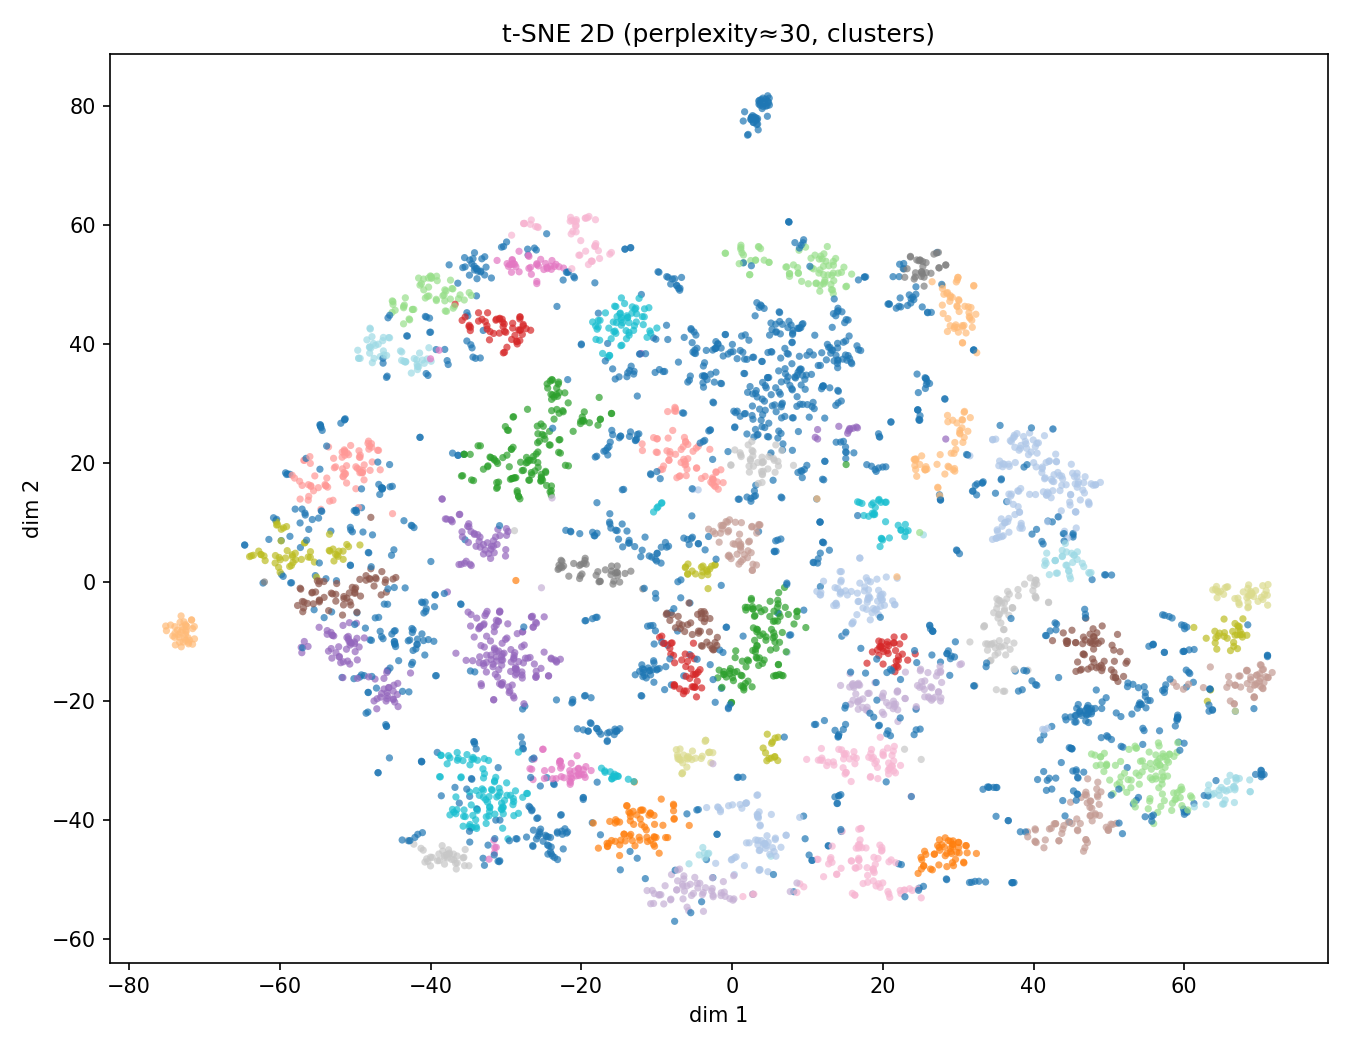
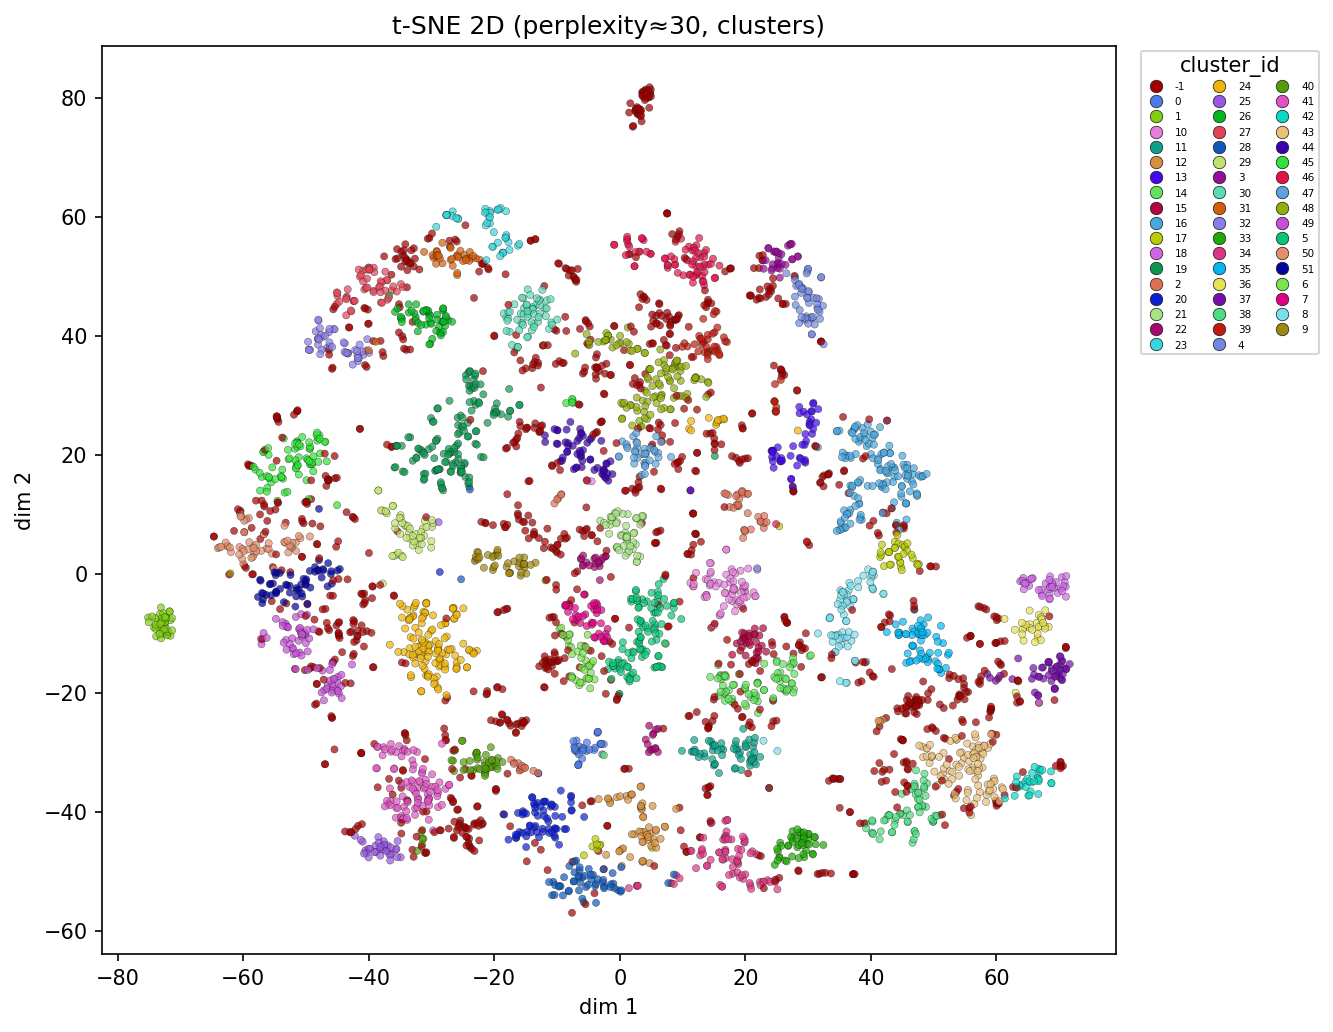
Update figures and enhance plotting functions for cluster analysis
Replaced existing figure files with updated versions for cluster sizes, PCA, t-SNE, and UMAP visualizations. Improved the plotting functions to include dynamic legend titles and enhanced color mapping for clusters, ensuring better clarity and consistency in visual representations. Adjusted legend formatting based on the number of clusters to improve readability.

diff --git a/maks/thesisdatarepo/analysis/plotting.py b/maks/thesisdatarepo/analysis/plotting.py
@@ -11,7 +11,7 @@ import numpy as np
 import pandas as pd
 import seaborn as sns
 from matplotlib.colors import to_rgba
-from matplotlib.patches import Ellipse
+from matplotlib.patches import Ellipse, Patch
 
 
 # 1/φ: consecutive indices land ~222° apart on the hue wheel (no smooth rainbow).
@@ -42,14 +42,22 @@ def _distinct_category_palette(n: int) -> list[tuple[float, float, float]]:
     return out
 
 
+def make_categorical_color_map(labels: pd.Series | np.ndarray) -> dict[str, tuple[float, float, float]]:
+    """Sorted string category -> RGB using :func:`_distinct_category_palette`."""
+    s = pd.Series(labels).astype(str)
+    names = sorted(s.unique())
+    if not names:
+        return {}
+    pal = _distinct_category_palette(len(names))
+    return {n: pal[i] for i, n in enumerate(names)}
+
+
 def make_department_color_map(department: pd.Series) -> dict[str, tuple[float, float, float]]:
     """
     Stable ``department value -> RGB`` for every figure: sorted unique labels
     each get a fixed slot in :func:`_distinct_category_palette`.
     """
-    names = sorted(pd.Series(department).fillna("unknown").astype(str).unique())
-    pal = _distinct_category_palette(len(names))
-    return {n: pal[i] for i, n in enumerate(names)}
+    return make_categorical_color_map(pd.Series(department).fillna("unknown"))
 
 
 def scatter_2d(
@@ -61,16 +69,56 @@ def scatter_2d(
     dpi: int = 150,
     s: float = 12.0,
     alpha: float = 0.7,
+    legend_title: str = "Category",
 ) -> None:
     out.parent.mkdir(parents=True, exist_ok=True)
     fig, ax = plt.subplots(figsize=(9, 7))
-    u = pd.factorize(pd.Series(hue).astype(str))[0]
-    ax.scatter(xy[:, 0], xy[:, 1], c=u, cmap="tab20", s=s, alpha=alpha, linewidths=0)
+    ser = pd.Series(hue).astype(str)
+    cmap_dict = make_categorical_color_map(ser)
+    names_sorted = sorted(cmap_dict.keys())
+    colors = [cmap_dict[h] for h in ser]
+    ax.scatter(
+        xy[:, 0],
+        xy[:, 1],
+        c=colors,
+        s=s,
+        alpha=alpha,
+        linewidths=0.2,
+        edgecolors=(0.08, 0.08, 0.08, 0.45),
+    )
     ax.set_title(title)
     ax.set_xlabel("dim 1")
     ax.set_ylabel("dim 2")
+    n_u = len(names_sorted)
+    if n_u > 0:
+        palette = [cmap_dict[n] for n in names_sorted]
+        leg_fs = 5.0 if n_u > 48 else (5.5 if n_u > 32 else (6.5 if n_u > 16 else 7.5))
+        ncols = 3 if n_u > 30 else (2 if n_u > 14 else 1)
+        handles = [
+            plt.Line2D(
+                [0],
+                [0],
+                marker="o",
+                linestyle="",
+                color=palette[i],
+                label=str(names_sorted[i])[:44],
+                markersize=6,
+                markeredgecolor=(0.12, 0.12, 0.12),
+                markeredgewidth=0.35,
+            )
+            for i in range(n_u)
+        ]
+        ax.legend(
+            handles=handles,
+            bbox_to_anchor=(1.02, 1),
+            loc="upper left",
+            fontsize=leg_fs,
+            frameon=True,
+            title=legend_title,
+            ncol=ncols,
+        )
     fig.tight_layout()
-    fig.savefig(out, dpi=dpi)
+    fig.savefig(out, dpi=dpi, bbox_inches="tight")
     plt.close(fig)
 
 
@@ -235,31 +283,85 @@ def scatter_2d_department_with_cluster_blobs(
     ax.set_xlabel("dim 1")
     ax.set_ylabel("dim 2")
 
-    show_legend = department_color_map is not None or n_u <= 32
-    if show_legend:
-        leg_fs = 5.5 if n_u > 40 else (6.0 if n_u > 24 else 7.0)
-        handles = [
+    leg_fs = 5.5 if n_u > 40 else (6.0 if n_u > 24 else 7.0)
+    dept_ncols = 2 if n_u > 28 else 1
+    dept_handles = [
+        plt.Line2D(
+            [0],
+            [0],
+            marker="o",
+            linestyle="",
+            color=palette[i],
+            label=str(legend_names[i])[:52],
+            markersize=6 if n_u > 40 else 7,
+            markeredgecolor=(0.15, 0.15, 0.15),
+            markeredgewidth=0.4,
+        )
+        for i in range(n_u)
+    ]
+    leg_dept = ax.legend(
+        handles=dept_handles,
+        bbox_to_anchor=(1.02, 1.0),
+        loc="upper left",
+        fontsize=leg_fs,
+        frameon=True,
+        title=legend_title,
+        ncol=dept_ncols,
+    )
+    ax.add_artist(leg_dept)
+
+    ucl = sorted(int(x) for x in np.unique(cl))
+    cl_handles: list[plt.Line2D] = []
+    for cid in ucl:
+        if cid < 0:
+            rgb = (0.62, 0.62, 0.62)
+            lab = "noise (−1)"
+        else:
+            rgba = cmap_bg((cid % 20) / 20.0)
+            rgb = tuple(float(x) for x in rgba[:3])
+            lab = f"cluster {cid}"
+        cl_handles.append(
             plt.Line2D(
                 [0],
                 [0],
-                marker="o",
+                marker="s",
                 linestyle="",
-                color=palette[i],
-                label=str(legend_names[i])[:52],
-                markersize=6 if n_u > 40 else 7,
-                markeredgecolor=(0.15, 0.15, 0.15),
-                markeredgewidth=0.4,
+                color=rgb,
+                label=lab,
+                markersize=6,
+                markeredgecolor=(0.2, 0.2, 0.2),
+                markeredgewidth=0.35,
             )
-            for i in range(n_u)
-        ]
-        ax.legend(
-            handles=handles,
-            bbox_to_anchor=(1.02, 1),
-            loc="upper left",
-            fontsize=leg_fs,
-            frameon=True,
-            title=legend_title,
         )
+    max_cl_leg = 28
+    if len(cl_handles) > max_cl_leg:
+        n_extra = len(cl_handles) - max_cl_leg + 1
+        cl_handles = cl_handles[: max_cl_leg - 1]
+        cl_handles.append(
+            plt.Line2D(
+                [0],
+                [0],
+                marker="",
+                linestyle="",
+                color="0.45",
+                label=f"+ {n_extra} more …",
+                markersize=0,
+            )
+        )
+    n_cl = len(cl_handles)
+    cl_fs = 5.0 if n_cl > 22 else 6.0
+    cl_ncols = 3 if n_cl > 15 else (2 if n_cl > 7 else 1)
+    ax.legend(
+        handles=cl_handles,
+        loc="upper right",
+        bbox_to_anchor=(0.99, 0.99),
+        fontsize=cl_fs,
+        frameon=True,
+        framealpha=0.92,
+        title="Cluster (cloud)",
+        ncol=cl_ncols,
+    )
+
     fig.tight_layout()
     fig.savefig(out, dpi=dpi, bbox_inches="tight")
     plt.close(fig)
@@ -267,20 +369,53 @@ def scatter_2d_department_with_cluster_blobs(
 
 def cluster_bar(counts: pd.Series, out: Path, *, dpi: int = 150) -> None:
     out.parent.mkdir(parents=True, exist_ok=True)
-    fig, ax = plt.subplots(figsize=(10, 5))
-    counts.sort_index().plot(kind="bar", ax=ax)
+    fig, ax = plt.subplots(figsize=(11, 5))
+    s = counts.sort_index()
+    idx = s.index.astype(str)
+    vals = s.values.astype(float)
+    n = len(vals)
+    cmap = plt.get_cmap("tab20")
+    colors = [cmap(i % 20 / 20.0) for i in range(n)]
+    x = np.arange(n)
+    ax.bar(x, vals, color=colors, edgecolor="0.25", linewidth=0.35)
+    ax.set_xticks(x)
+    ax.set_xticklabels(idx, rotation=45, ha="right", fontsize=8)
     ax.set_title("Documents per cluster")
     ax.set_xlabel("cluster_id")
+    ax.set_ylabel("count")
+    handles = [
+        Patch(facecolor=colors[i], edgecolor="0.25", label=str(idx[i])[:32])
+        for i in range(n)
+    ]
+    leg_ncol = 4 if n > 20 else (3 if n > 10 else 2 if n > 5 else 1)
+    leg_fs = 5.5 if n > 24 else 7.0
+    ax.legend(
+        handles=handles,
+        bbox_to_anchor=(1.02, 1),
+        loc="upper left",
+        fontsize=leg_fs,
+        frameon=True,
+        title="cluster_id",
+        ncol=leg_ncol,
+    )
     fig.tight_layout()
-    fig.savefig(out, dpi=dpi)
+    fig.savefig(out, dpi=dpi, bbox_inches="tight")
     plt.close(fig)
 
 
 def publisher_topic_heatmap(ct: pd.DataFrame, out: Path, *, dpi: int = 150) -> None:
     out.parent.mkdir(parents=True, exist_ok=True)
     fig, ax = plt.subplots(figsize=(max(10, ct.shape[1] * 0.4), max(6, ct.shape[0] * 0.25)))
-    sns.heatmap(ct, ax=ax, cmap="viridis", annot=False)
+    sns.heatmap(
+        ct,
+        ax=ax,
+        cmap="viridis",
+        annot=False,
+        cbar_kws={"label": "Documents (count)"},
+    )
     ax.set_title("Publisher × cluster (counts)")
+    ax.set_xlabel("cluster_id")
+    ax.set_ylabel("publisher")
     fig.tight_layout()
-    fig.savefig(out, dpi=dpi)
+    fig.savefig(out, dpi=dpi, bbox_inches="tight")
     plt.close(fig)

diff --git a/maks/thesisdatarepo/analysis/pipeline.py b/maks/thesisdatarepo/analysis/pipeline.py
@@ -63,12 +63,19 @@ def plot_pca_tsne_figures(
     emb_disk = normalize(np.asarray(emb_disk, dtype=np.float64), norm="l2", axis=1)
 
     dept_legend = (fac_col.strip() or "Department") if fac_col else "Department"
+    pub_legend = (pub_col.strip() or "Publisher") if pub_col else "Publisher"
     if fac_col in df.columns and department_color_map is None:
         department_color_map = make_department_color_map(df[fac_col].fillna("unknown"))
 
     hue_cluster = pd.Series(labels).astype(str)
     pca2 = run_pca_2d(emb_disk, cfg.tsne_random_state)
-    scatter_2d(pca2, hue_cluster, "PCA 2D (clusters)", fig_dir / "pca2d_clusters.png")
+    scatter_2d(
+        pca2,
+        hue_cluster,
+        "PCA 2D (clusters)",
+        fig_dir / "pca2d_clusters.png",
+        legend_title="cluster_id",
+    )
     if fac_col in df.columns:
         scatter_2d_department_with_cluster_blobs(
             pca2,
@@ -98,6 +105,7 @@ def plot_pca_tsne_figures(
             hue_cluster,
             f"t-SNE 2D (perplexity≈{use_p:.0f}, clusters)",
             fig_dir / f"{tag}_clusters.png",
+            legend_title="cluster_id",
         )
         if pub_col in df.columns:
             scatter_2d(
@@ -105,6 +113,7 @@ def plot_pca_tsne_figures(
                 df[pub_col].fillna("unknown"),
                 f"t-SNE 2D (perplexity≈{use_p:.0f}, publisher)",
                 fig_dir / f"{tag}_publisher.png",
+                legend_title=pub_legend,
             )
         if fac_col in df.columns:
             scatter_2d_department_with_cluster_blobs(
@@ -263,9 +272,22 @@ def run_pipeline(cfg: AnalysisConfig) -> None:
     cluster_bar(ser, fig_dir / "cluster_sizes.png")
 
     hue_cluster = pd.Series(labels).astype(str)
-    scatter_2d(u2, hue_cluster, "UMAP 2D (clusters)", fig_dir / "umap2d_clusters.png")
+    pub_legend = (pub_col.strip() or "Publisher") if pub_col else "Publisher"
+    scatter_2d(
+        u2,
+        hue_cluster,
+        "UMAP 2D (clusters)",
+        fig_dir / "umap2d_clusters.png",
+        legend_title="cluster_id",
+    )
     if pub_col in df.columns:
-        scatter_2d(u2, df[pub_col].fillna("unknown"), "UMAP 2D (publisher)", fig_dir / "umap2d_publisher.png")
+        scatter_2d(
+            u2,
+            df[pub_col].fillna("unknown"),
+            "UMAP 2D (publisher)",
+            fig_dir / "umap2d_publisher.png",
+            legend_title=pub_legend,
+        )
     dept_colors: dict[str, tuple[float, float, float]] | None = None
     dept_legend = (fac_col.strip() or "Department") if fac_col else "Department"
     if fac_col in df.columns:

diff --git a/maks/thesisdatarepo/analysis/evolution.py b/maks/thesisdatarepo/analysis/evolution.py
@@ -58,11 +58,21 @@ def run_evolution(cfg: AnalysisConfig) -> None:
     fig_dir.mkdir(parents=True, exist_ok=True)
     fig, ax = plt.subplots(figsize=(11, 6))
     for col in shares.columns:
-        ax.plot(shares.index, shares[col], marker="o", ms=3, label=f"c{col}")
+        ax.plot(shares.index, shares[col], marker="o", ms=3, label=f"cluster {col}")
     ax.set_xlabel("year")
     ax.set_ylabel("share within year")
     ax.set_title("Cluster prevalence over time (share within year)")
-    ax.legend(bbox_to_anchor=(1.02, 1), loc="upper left", fontsize="small", ncol=1)
+    n_leg = len(shares.columns)
+    leg_ncol = min(5, max(1, (n_leg + 11) // 12))
+    leg_fs = 6 if n_leg > 24 else 7 if n_leg > 12 else "small"
+    ax.legend(
+        bbox_to_anchor=(1.02, 1),
+        loc="upper left",
+        fontsize=leg_fs,
+        ncol=leg_ncol,
+        frameon=True,
+        title="cluster_id",
+    )
     fig.tight_layout()
     out_png = fig_dir / "cluster_emerging_declining.png"
     fig.savefig(out_png, dpi=150, bbox_inches="tight")
